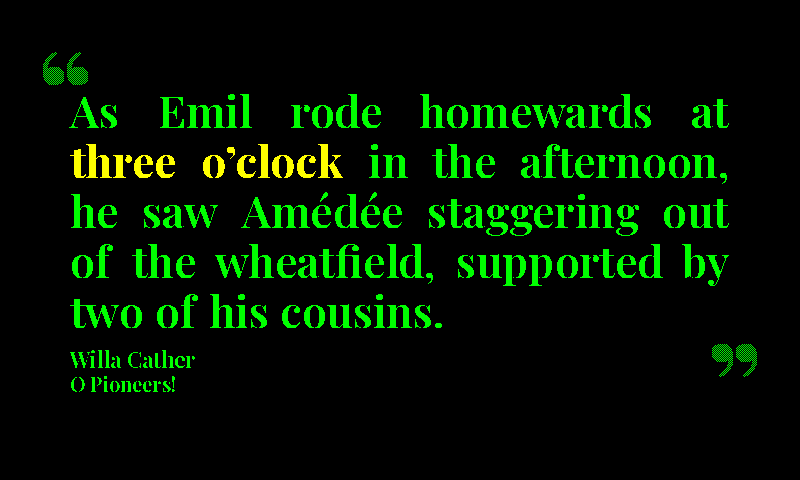
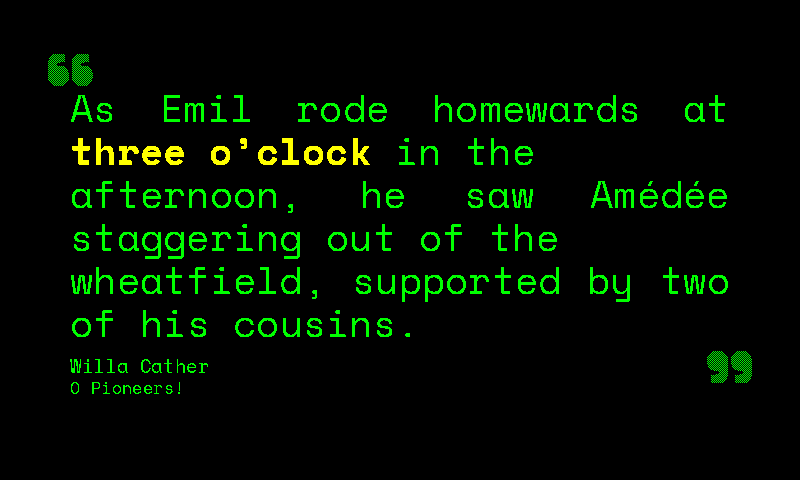
Refresh theme previews + README table with new per-theme typefaces
Regenerated scholar/newsprint/nightvision preview PNGs with the EB
Garamond / Old Standard TT / Space Mono faces that landed in the
previous commit, so the README reflects what the actual panel renders.
default and dark are byte-identical (Playfair unchanged) so only the
three new-theme PNGs moved on disk.

Added a Typeface column to the themes table and a parenthetical to the
regeneration hint naming each bundled family, so a reader scanning the
table can map theme -> face without digging into render_quote.py.

diff --git a/README.md b/README.md
@@ -182,21 +182,21 @@ python3 run_clock.py --once --display-script display_inky.py --mode production
 
 ### Themes
 
-Five themes ship built-in, all constrained to the Spectra 6 panel palette (white / black / red / yellow / blue / green). Previews all show the same quote so the palette differences are the only variable — the real renders adapt layout to the picked line's length.
+Five themes ship built-in, all constrained to the Spectra 6 panel palette (white / black / red / yellow / blue / green). Each theme also pairs its palette with its own typeface so the visual voice — not just the colour — shifts with the theme. Previews all show the same quote so the palette + typography differences are the only variable; the real renders adapt layout to the picked line's length.
 
-| `--theme`     | Preview | Page bg | Body text | Accent  | Feel                                   |
-|---------------|---------|---------|-----------|---------|----------------------------------------|
-| `default`     | <img src="assets/previews/default.png" width="240" alt="default theme preview">     | white   | black     | red     | Classic broadsheet                     |
-| `dark`        | <img src="assets/previews/dark.png" width="240" alt="dark theme preview">        | black   | white     | yellow  | Night mode                             |
-| `scholar`     | <img src="assets/previews/scholar.png" width="240" alt="scholar theme preview">     | white   | blue      | red     | Scholarly journal                      |
-| `newsprint`   | <img src="assets/previews/newsprint.png" width="240" alt="newsprint theme preview">   | white   | black     | (none)  | Pure typography — bold-weight accent   |
-| `nightvision` | <img src="assets/previews/nightvision.png" width="240" alt="nightvision theme preview"> | black   | green     | yellow  | Retro terminal / Apollo-era monitor    |
+| `--theme`     | Preview | Page bg | Body text | Accent  | Typeface        | Feel                                   |
+|---------------|---------|---------|-----------|---------|-----------------|----------------------------------------|
+| `default`     | <img src="assets/previews/default.png" width="240" alt="default theme preview">     | white   | black     | red     | Playfair Display | Classic broadsheet                     |
+| `dark`        | <img src="assets/previews/dark.png" width="240" alt="dark theme preview">        | black   | white     | yellow  | Playfair Display | Night mode                             |
+| `scholar`     | <img src="assets/previews/scholar.png" width="240" alt="scholar theme preview">     | white   | blue      | red     | EB Garamond      | Scholarly journal                      |
+| `newsprint`   | <img src="assets/previews/newsprint.png" width="240" alt="newsprint theme preview">   | white   | black     | (none)  | Old Standard TT  | Pure typography — bold-weight accent   |
+| `nightvision` | <img src="assets/previews/nightvision.png" width="240" alt="nightvision theme preview"> | black   | green     | yellow  | Space Mono       | Retro terminal / Apollo-era monitor    |
 
 Pass `--theme auto` to let the clock pick by wall-clock time — `dark` between 18:00 and 06:00, `default` otherwise. `auto` is deliberately binary; the three "operator-choice" themes are never auto-selected. A manual button-B press (or a web-UI dropdown jump) overrides `auto` until the next midnight rollover.
 
 Button B cycles forward through the list and wraps; the curator web UI at `/api/themes` exposes the same cycle plus a dropdown that jumps directly to any named theme. Clicking Apply on an unchanged selection is a no-op — it won't burn a 10–20 s eInk refresh and won't silently disable `auto` mode.
 
-> Regenerate previews: the images under `assets/previews/` can be rebuilt from the renderer with a one-liner that loops over `render_quote.THEME_ORDER` and calls `render_quote.render(...)` with a fixed quote row. They're checked in so the README renders on GitHub without a build step.
+> Regenerate previews: the images under `assets/previews/` can be rebuilt from the renderer with a one-liner that loops over `render_quote.THEME_ORDER` and calls `render_quote.render(...)` with a fixed quote row. They're checked in so the README renders on GitHub without a build step. All five bundled OFL typefaces ship under `fonts/` (Playfair Display, EB Garamond, Old Standard TT, Space Mono) so the previews are reproducible without any system-font install.
 
 ### Inky buttons (short and long press)
 
